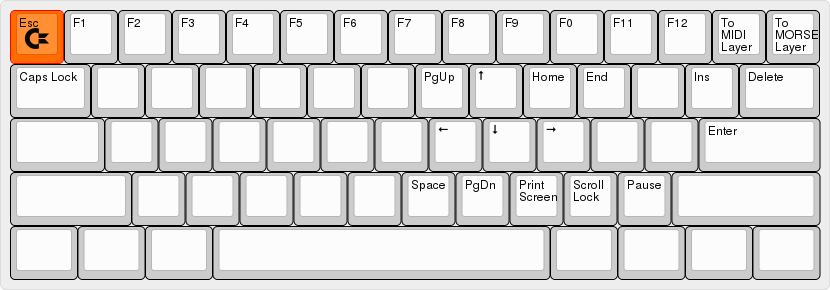
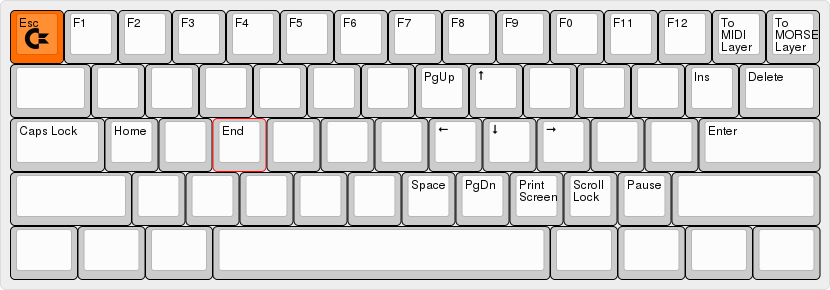
Added MIDI_CHORD layer and other little fixes. Updated readme.md

diff --git a/keyboards/s60_x/keymaps/bluebear/keymap.c b/keyboards/s60_x/keymaps/bluebear/keymap.c
@@ -3,11 +3,12 @@
 // Keyboard Layers
 
 enum keyboard_layers {
-  BASE,     //Base Layer
-  ARROWFN,  //Arrow/FN Layer
-  MOUSE,    //Mouse Layer
-  MIDI,     //Midi Layer
-  MORSE,    //Morse Code Layer
+  BASE,        //Base Layer
+  ARROWFN,     //Arrow/FN Layer
+  MOUSE,       //Mouse Layer
+  MIDI_BASE,   //Midi Layer
+  MIDI_CHORDS, //Midi Chord Layer
+  MORSE,       //Morse Code Layer
 };
 
 // Midi Chords
@@ -15,6 +16,8 @@ enum keyboard_layers {
 enum midi_chord_modes { //ACTION_FUNCTION id
   major,
   minor,
+  dom_seventh,
+  dim_seventh,
 };
 
 enum midi_chord_root { //ACTION_FUNCTION opt
@@ -78,6 +81,46 @@ enum midi_chord_id { //ACTION_FUNCTION Progmem Id
   AsMinor,
   BbMinor = AsMinor,
   BMinor,
+
+  //Dominant Seventh Chords
+
+  CDom7,
+  CsDom7,
+  DbDom7 = CsDom7,
+  DDom7,
+  DsDom7,
+  EbDom7 = DsDom7,
+  EDom7,
+  FDom7,
+  FsDom7,
+  GbDom7 = FsDom7,
+  GDom7,
+  GsDom7,
+  AbDom7 = GsDom7,
+  ADom7,
+  AsDom7,
+  BbDom7 = AsDom7,
+  BDom7,
+  
+  //Diminished Seventh Chords
+
+  CDim7,
+  CsDim7,
+  DbDim7 = CsDim7,
+  DDim7,
+  DsDim7,
+  EbDim7 = DsDim7,
+  EDim7,
+  FDim7,
+  FsDim7,
+  GbDim7 = FsDim7,
+  GDim7,
+  GsDim7,
+  AbDim7 = GsDim7,
+  ADim7,
+  AsDim7,
+  BbDim7 = AsDim7,
+  BDim7, 
 };
 
 enum midi_chord_keycodes { //Midi Chocd Keycodes
@@ -121,6 +164,46 @@ enum midi_chord_keycodes { //Midi Chocd Keycodes
   MI_CH_Asm = F(AsMinor),
   MI_CH_Bbm = MI_CH_Asm,
   MI_CH_Bm = F(BMinor),
+
+  //Dominant Seventh Keycodes
+
+  MI_CH_CDom7 = F(CDom7),
+  MI_CH_CsDom7 = F(CsDom7),
+  MI_CH_DbDom7 = MI_CH_CsDom7,
+  MI_CH_DDom7 = F(DDom7),
+  MI_CH_DsDom7 = F(DsDom7),
+  MI_CH_EbDom7 = MI_CH_DsDom7,
+  MI_CH_EDom7 = F(EDom7),
+  MI_CH_FDom7 = F(FDom7),
+  MI_CH_FsDom7 = F(FsDom7),
+  MI_CH_GbDom7 = MI_CH_FsDom7,
+  MI_CH_GDom7 = F(GDom7),
+  MI_CH_GsDom7 = F(GsDom7),
+  MI_CH_AbDom7 = MI_CH_GsDom7,
+  MI_CH_ADom7 = F(ADom7),
+  MI_CH_AsDom7 = F(AsDom7),
+  MI_CH_BbDom7 = MI_CH_AsDom7,
+  MI_CH_BDom7 = F(BDom7),
+
+  //Diminished Seventh Keycodes
+
+  MI_CH_CDim7 = F(CDim7),
+  MI_CH_CsDim7 = F(CsDim7),
+  MI_CH_DbDim7 = MI_CH_CsDim7,
+  MI_CH_DDim7 = F(DDim7),
+  MI_CH_DsDim7 = F(DsDim7),
+  MI_CH_EbDim7 = MI_CH_DsDim7,
+  MI_CH_EDim7 = F(EDim7),
+  MI_CH_FDim7 = F(FDim7),
+  MI_CH_FsDim7 = F(FsDim7),
+  MI_CH_GbDim7 = MI_CH_FsDim7,
+  MI_CH_GDim7 = F(GDim7),
+  MI_CH_GsDim7 = F(GsDim7),
+  MI_CH_AbDim7 = MI_CH_GsDim7,
+  MI_CH_ADim7 = F(ADim7),
+  MI_CH_AsDim7 = F(AsDim7),
+  MI_CH_BbDim7 = MI_CH_AsDim7,
+  MI_CH_BDim7 = F(BDim7),
 };
 
 //Morse Code Macro Keys
@@ -202,7 +285,7 @@ const uint16_t PROGMEM keymaps[][MATRIX_ROWS][MATRIX_COLS] = {
   /* 1: Arrow/FN Layer
 
 	 ┌─────┬─────┬─────┬─────┬─────┬─────┬─────┬─────┬─────┬─────┬─────┬─────┬─────┬─────┬─────┐
-	 │     │ F1  │ F2  │ F3  │ F4  │ F5  │ F6  │ F7  │ F8  │ F9  │ F10 │ F11 │ F12 │TO(3)│TO(4)│
+	 │     │ F1  │ F2  │ F3  │ F4  │ F5  │ F6  │ F7  │ F8  │ F9  │ F10 │ F11 │ F12 │TO(3)│TO(5)│
 	 ├─────┼─────┼─────┼─────┼─────┼─────┼─────┼─────┼─────┼─────┼─────┼─────┼─────┼─────┼─────┤
 	 │     │     │     │     │     │     │     │PGUP │  UP │     │     │     │ INS │ DEL │█████│
 	 ├─────┼─────┼─────┼─────┼─────┼─────┼─────┼─────┼─────┼─────┼─────┼─────┼─────┼─────┼─────┤
@@ -215,7 +298,7 @@ const uint16_t PROGMEM keymaps[][MATRIX_ROWS][MATRIX_COLS] = {
   */
 
   [ARROWFN] = KEYMAP(
-					 KC_TRNS,  KC_F1,  KC_F2,  KC_F3,  KC_F4,  KC_F5,  KC_F6,  KC_F7,  KC_F8,  KC_F9, KC_F10,  KC_F11,  KC_F12,  TO(3),  TO(4), \
+					 KC_TRNS,  KC_F1,  KC_F2,  KC_F3,  KC_F4,  KC_F5,  KC_F6,  KC_F7,  KC_F8,  KC_F9, KC_F10,  KC_F11,  KC_F12,  TO(3),  TO(5), \
 					 KC_NO,  KC_NO,  KC_NO,  KC_NO,  KC_NO,  KC_NO,  KC_NO,  KC_PGUP,  KC_UP,  KC_NO,  KC_NO,  KC_NO,  KC_INS,  KC_DEL, \
 					 KC_CAPS,  KC_HOME,  KC_NO,  KC_END,  KC_NO,  KC_NO,  KC_NO,  KC_LEFT,  KC_DOWN,  KC_RIGHT,  KC_NO,  KC_NO,  KC_NO,  KC_TRNS,  \
 					 KC_NO,  KC_NO,  KC_NO,  KC_NO,  KC_NO,  KC_NO,  KC_NO,  KC_SPACE,  KC_PGDN,  KC_PSCR,  KC_SLCK,  KC_PAUS,  KC_NO,  KC_NO,  KC_NO, \
@@ -225,7 +308,7 @@ const uint16_t PROGMEM keymaps[][MATRIX_ROWS][MATRIX_COLS] = {
   /* 2: Mouse Keys Layer
 
 	 ┌─────┬─────┬─────┬─────┬─────┬─────┬─────┬─────┬─────┬─────┬─────┬─────┬─────┬─────┬─────┐
-	 │RESET│ F1  │ F2  │ F3  │ F4  │ F5  │ F6  │ F7  │ F8  │ F9  │ F10 │ F11 │ F12 │     │     │
+	 │RESET│ F13 │ F14 │ F15 │ F16 │ F17 │ F18 │ F19 │ F20 │ F21 │ F22 │ F23 │ F24 │     │     │
 	 ├─────┼─────┼─────┼─────┼─────┼─────┼─────┼─────┼─────┼─────┼─────┼─────┼─────┼─────┼─────┤
 	 │DEBUG│     │     │     │     │     │     │BTN1 │MS_UP│BTN2 │WH_UP│     │     │     │█████│
 	 ├─────┼─────┼─────┼─────┼─────┼─────┼─────┼─────┼─────┼─────┼─────┼─────┼─────┼─────┼─────┤
@@ -239,37 +322,60 @@ const uint16_t PROGMEM keymaps[][MATRIX_ROWS][MATRIX_COLS] = {
 
   [MOUSE] = KEYMAP(
 					 
-				   RESET,  KC_F1,  KC_F2,  KC_F3,  KC_F4,  KC_F5,  KC_F6,  KC_F7,  KC_F8,  KC_F9, KC_F10,  KC_F11,  KC_F12,  KC_NO,  KC_NO,  \
+				   RESET,  KC_F13,  KC_F14,  KC_F15,  KC_F16,  KC_F17,  KC_F18,  KC_F19,  KC_F20,  KC_F21, KC_F22,  KC_F23,  KC_F24,  KC_NO,  KC_NO,  \
 				   DEBUG,  KC_NO,  KC_NO,  KC_NO,  KC_NO,  KC_NO,  KC_NO,  KC_BTN1,  KC_MS_UP,  KC_BTN2,  KC_WH_U,  KC_NO,  KC_NO,  KC_NO, \
 				   KC_NO,  KC_NO,  KC_NO,  KC_NO,  KC_NO,  KC_NO,  KC_NO,  KC_MS_LEFT,  KC_MS_DOWN,  KC_MS_RIGHT,  KC_WH_D,  KC_BTN3,  KC_NO,  KC_NO,  \
 				   KC_NO,  KC_NO,  KC_NO,  KC_NO,  KC_NO,  KC_NO,  KC_NO,  KC_NO,  KC_NO,  KC_NO,  KC_NO,  KC_NO,  KC_NO,  KC_NO,  KC_NO, \
 				   KC_TRNS,  KC_NO,  KC_NO,  KC_POWER,  KC_NO, KC_NO,  KC_NO,  KC_NO
 				   ),
 
-  /* 3: Midi Layer
+  /* 3: Midi Base Layer
 
 	 ┌─────┬─────┬─────┬─────┬─────┬─────┬─────┬─────┬─────┬─────┬─────┬─────┬─────┬─────┬─────┐
-	 │TO(0)│ Cmaj│ Gmaj│ Dmaj│ Amaj│ Emaj│ Bmaj│Gbmaj│Dbmaj│Abmaj│Ebmaj│Bbmaj│ Fmaj│     │     │
+	 │TO(0)│ Cmaj│ Gmaj│ Dmaj│ Amaj│ Emaj│ Bmaj│Gbmaj│Dbmaj│Abmaj│Ebmaj│Bbmaj│ Fmaj│     │TO(4)│
 	 ├─────┼─────┼─────┼─────┼─────┼─────┼─────┼─────┼─────┼─────┼─────┼─────┼─────┼─────┼─────┤
-	 │     │     │  C# │  D# │     │  F# │  G# │  A# │     │  C# │  D# │     │     │     │█████│
+	 │OCT+ │     │  C# │  D# │     │  F# │  G# │  A# │     │  C# │  D# │     │     │     │█████│
 	 ├─────┼─────┼─────┼─────┼─────┼─────┼─────┼─────┼─────┼─────┼─────┼─────┼─────┼─────┼─────┤
-	 │OCT- │  C  │  D  │  E  │  F  │  G  │  A  │  B  │  C  │  D  │  E  │  F  │▒▒▒▒▒│OCT+ │█████│
+	 │OCT- │  C  │  D  │  E  │  F  │  G  │  A  │  B  │  C  │  D  │  E  │  F  │▒▒▒▒▒│     │█████│
 	 ├─────┼─────┼─────┼─────┼─────┼─────┼─────┼─────┼─────┼─────┼─────┼─────┼─────┼─────┼─────┤
-	 │ Am  │▒▒▒▒▒│ Em  │ Bm  │ F#m │ C#m │ G#m │ D#m │ Bbm │ Fm  │ Cm  │ Gm  │▒▒▒▒▒│ Dm  │▒▒▒▒▒│
+	 │ Cm  │▒▒▒▒▒│ Gm  │ Dm  │ Am  │ Em  │ Bm  │ Gbm │ Dbm │ Abm │ Ebm │ Bbm │▒▒▒▒▒│ Fm  │▒▒▒▒▒│
 	 ├─────┼─────┼─────┼─────┼─────┼─────┼─────┼─────┼─────┼─────┼─────┼─────┼─────┼─────┼─────┤
 	 │     │     │     │█████│█████│█████│A-OFF│█████│█████│█████│     │     │     │     │█████│
 	 └─────┴─────┴─────┴─────┴─────┴─────┴─────┴─────┴─────┴─────┴─────┴─────┴─────┴─────┴─────┘
   */
 	
-  [MIDI] = KEYMAP(
-				  TO(0),  MI_CH_C,  MI_CH_G,  MI_CH_D,  MI_CH_A,  MI_CH_E,  MI_CH_B,  MI_CH_Gb,  MI_CH_Db,  MI_CH_Ab, MI_CH_Eb,  MI_CH_Bb,  MI_CH_F,  KC_NO,  KC_NO, \
-				  KC_NO,  KC_NO,  MI_Cs,  MI_Ds,  KC_NO,  MI_Fs,  MI_Gs,  MI_As,  KC_NO,  MI_Cs_1,  MI_Ds_1,  KC_NO,  KC_NO,  KC_NO, \
-				  MI_OCTD,  MI_C,  MI_D,  MI_E,  MI_F,  MI_G,  MI_A,  MI_B,  MI_C_1,  MI_D_1,  MI_E_1,  MI_F_1,  KC_NO,  MI_OCTU,  \
-				  MI_CH_Am,  KC_NO,  MI_CH_Em,  MI_CH_Bm,  MI_CH_Fsm,  MI_CH_Csm,  MI_CH_Gsm,  MI_CH_Dsm,  MI_CH_Bbm,  MI_CH_Fm,  MI_CH_Cm,  MI_CH_Gm,  KC_NO,  MI_CH_Dm,  KC_NO, \
-				  KC_NO,  KC_NO,  KC_NO,  MI_ALLOFF,  KC_NO, KC_NO,  KC_NO,  KC_NO
-				  ),
+  [MIDI_BASE] = KEYMAP(
+					   TO(0),  MI_CH_C,  MI_CH_G,  MI_CH_D,  MI_CH_A,  MI_CH_E,  MI_CH_B,  MI_CH_Gb,  MI_CH_Db,  MI_CH_Ab, MI_CH_Eb,  MI_CH_Bb,  MI_CH_F,  KC_NO,  TO(4), \
+					   MI_OCTU,  KC_NO,  MI_Cs,  MI_Ds,  KC_NO,  MI_Fs,  MI_Gs,  MI_As,  KC_NO,  MI_Cs_1,  MI_Ds_1,  KC_NO,  KC_NO,  KC_NO, \
+					   MI_OCTD,  MI_C,  MI_D,  MI_E,  MI_F,  MI_G,  MI_A,  MI_B,  MI_C_1,  MI_D_1,  MI_E_1,  MI_F_1,  KC_NO,  KC_NO,  \
+					   MI_CH_Cm,  KC_NO,  MI_CH_Gm,  MI_CH_Dm,  MI_CH_Am,  MI_CH_Em,  MI_CH_Bm,  MI_CH_Gbm,  MI_CH_Dbm,  MI_CH_Abm,  MI_CH_Ebm,  MI_CH_Bbm,  KC_NO,  MI_CH_Fm,  KC_NO, \
+					   KC_NO,  KC_NO,  KC_NO,  MI_ALLOFF,  KC_NO, KC_NO,  KC_NO,  KC_NO
+					   ),
 
-  /* 4: Morse Code Layer
+  /* 4: Midi Chord Layer
+
+	 ┌─────┬─────┬─────┬─────┬─────┬─────┬─────┬─────┬─────┬─────┬─────┬─────┬─────┬─────┬─────┐
+	 │TO(0)│ Cmaj│ Gmaj│ Dmaj│ Amaj│ Emaj│ Bmaj│Gbmaj│Dbmaj│Abmaj│Ebmaj│Bbmaj│ Fmaj│TO(3)│     │
+	 ├─────┼─────┼─────┼─────┼─────┼─────┼─────┼─────┼─────┼─────┼─────┼─────┼─────┼─────┼─────┤
+	 │OCT+ │  Cm │  Gm │  Dm │  Am │  Em │ Bbm │ Gbm │ Dbm │ Abm │ Ebm │ Bbm │ Fm  │     │█████│
+	 ├─────┼─────┼─────┼─────┼─────┼─────┼─────┼─────┼─────┼─────┼─────┼─────┼─────┼─────┼─────┤
+	 │OCT- │Cdom7│Gdom7│Ddom7│Adom7│Edom7│Bdom7│Gbdo7│Dbdo7│Abdo7│Ebdo7│Bbdo7│▒▒▒▒▒│Fdom7│█████│
+	 ├─────┼─────┼─────┼─────┼─────┼─────┼─────┼─────┼─────┼─────┼─────┼─────┼─────┼─────┼─────┤
+	 │Cdim7│▒▒▒▒▒│Gdim7│Ddim7│Adim7│Edim7│Bdim7│Gbdi7│Dbdi7│Abdi7│Ebdi7│Bbdi7│▒▒▒▒▒│Fdim7│▒▒▒▒▒│
+	 ├─────┼─────┼─────┼─────┼─────┼─────┼─────┼─────┼─────┼─────┼─────┼─────┼─────┼─────┼─────┤
+	 │     │     │     │█████│█████│█████│A-OFF│█████│█████│█████│     │     │     │     │█████│
+	 └─────┴─────┴─────┴─────┴─────┴─────┴─────┴─────┴─────┴─────┴─────┴─────┴─────┴─────┴─────┘
+  */
+	
+  [MIDI_CHORDS] = KEYMAP(
+						 TO(0),  MI_CH_C,  MI_CH_G,  MI_CH_D,  MI_CH_A,  MI_CH_E,  MI_CH_B,  MI_CH_Gb,  MI_CH_Db,  MI_CH_Ab, MI_CH_Eb,  MI_CH_Bb,  MI_CH_F,  TO(3),  KC_NO, \
+						 MI_OCTU,  MI_CH_Cm,  MI_CH_Gm,  MI_CH_Dm,  MI_CH_Am,  MI_CH_Em,  MI_CH_Bbm,  MI_CH_Gbm,  MI_CH_Dbm,  MI_CH_Abm,  MI_CH_Ebm,  MI_CH_Bbm,  MI_CH_Fm,  KC_NO, \
+						 MI_OCTD,  MI_CH_CDom7,  MI_CH_GDom7,  MI_CH_DDom7,  MI_CH_ADom7,  MI_CH_EDom7,  MI_CH_BDom7,  MI_CH_GbDom7,  MI_CH_DbDom7,  MI_CH_AbDom7,  MI_CH_EbDom7,  MI_CH_BbDom7,  KC_NO,  MI_CH_FDom7, \
+						 MI_CH_CDim7,  KC_NO,  MI_CH_GDim7,  MI_CH_DDim7,  MI_CH_ADim7,  MI_CH_EDim7,  MI_CH_BDim7,  MI_CH_GbDim7,  MI_CH_DbDim7,  MI_CH_AbDim7,  MI_CH_EbDim7,  MI_CH_BbDim7,  KC_NO,  MI_CH_FDim7,  KC_NO, \
+						 KC_NO,  KC_NO,  KC_NO,  MI_ALLOFF,  KC_NO, KC_NO,  KC_NO,  KC_NO
+						 ),
+
+  /* 5: Morse Code Layer
 	 
 	 ┌─────┬─────┬─────┬─────┬─────┬─────┬─────┬─────┬─────┬─────┬─────┬─────┬─────┬─────┬─────┐
 	 │TO(0)│  1  │  2  │  3  │  4  │  5  │  6  │  7  │  8  │  9  │  0  │     │     │     │     │
@@ -720,6 +826,36 @@ const uint16_t PROGMEM fn_actions[] = {
   [AMinor] = ACTION_FUNCTION_OPT(minor, A),
   [AsMinor] = ACTION_FUNCTION_OPT(minor, As),
   [BMinor] = ACTION_FUNCTION_OPT(minor, B),
+  
+  //Dominant 7th
+
+  [CDom7] = ACTION_FUNCTION_OPT(dom_seventh, C),
+  [CsDom7] =  ACTION_FUNCTION_OPT(dom_seventh, Cs),
+  [DDom7] = ACTION_FUNCTION_OPT(dom_seventh, D),
+  [DsDom7] = ACTION_FUNCTION_OPT(dom_seventh, Ds),
+  [EDom7] = ACTION_FUNCTION_OPT(dom_seventh, E),
+  [FDom7] = ACTION_FUNCTION_OPT(dom_seventh, F),
+  [FsDom7] = ACTION_FUNCTION_OPT(dom_seventh, Fs),
+  [GDom7] = ACTION_FUNCTION_OPT(dom_seventh, G),
+  [GsDom7] = ACTION_FUNCTION_OPT(dom_seventh, Gs),
+  [ADom7] = ACTION_FUNCTION_OPT(dom_seventh, A),
+  [AsDom7] = ACTION_FUNCTION_OPT(dom_seventh, As),
+  [BDom7] = ACTION_FUNCTION_OPT(dom_seventh, B),
+
+  //Diminished 7th
+
+  [CDim7] = ACTION_FUNCTION_OPT(dim_seventh, C),
+  [CsDim7] =  ACTION_FUNCTION_OPT(dim_seventh, Cs),
+  [DDim7] = ACTION_FUNCTION_OPT(dim_seventh, D),
+  [DsDim7] = ACTION_FUNCTION_OPT(dim_seventh, Ds),
+  [EDim7] = ACTION_FUNCTION_OPT(dim_seventh, E),
+  [FDim7] = ACTION_FUNCTION_OPT(dim_seventh, F),
+  [FsDim7] = ACTION_FUNCTION_OPT(dim_seventh, Fs),
+  [GDim7] = ACTION_FUNCTION_OPT(dim_seventh, G),
+  [GsDim7] = ACTION_FUNCTION_OPT(dim_seventh, Gs),
+  [ADim7] = ACTION_FUNCTION_OPT(dim_seventh, A),
+  [AsDim7] = ACTION_FUNCTION_OPT(dim_seventh, As),
+  [BDim7] = ACTION_FUNCTION_OPT(dim_seventh, B),
 };
 
 void action_function(keyrecord_t *record, uint8_t id, uint8_t opt) {
@@ -764,19 +900,30 @@ void action_function(keyrecord_t *record, uint8_t id, uint8_t opt) {
   }
   uint16_t major_third = root_note + 4;
   uint16_t minor_third = root_note + 3;
+  //uint16_t flat_fifth = root_note + 6;
   uint16_t fifth = root_note + 7;
+  uint16_t minor_seventh = root_note + 10;
+  uint16_t diminished_seventh = root_note -3;
   switch (id) {
   case major: //Major chord
-	dprintf("Root Note:%d - Major Third:%d - Fifth:%d\n", root_note, major_third, fifth);
 	process_midi(root_note, record);
 	process_midi(major_third, record);
 	process_midi(fifth, record);
 	break;
   case minor: //Minor chord
-	dprintf("Root Note:%d - Minor Third:%d - Fifth:%d\n", root_note, minor_third, fifth);	
 	process_midi(root_note, record);
 	process_midi(minor_third, record);
 	process_midi(fifth, record);
+	break;
+  case dom_seventh: //Dominant Seventh chord
+	process_midi(root_note, record);
+	process_midi(major_third, record);
+	process_midi(minor_seventh, record);
+	break;
+  case dim_seventh: //Diminished Seventh Chord
+	process_midi(root_note, record);
+	process_midi(minor_third, record);
+	process_midi(diminished_seventh, record);
 	break;
   }
 }

diff --git a/keyboards/s60_x/keymaps/bluebear/readme.md b/keyboards/s60_x/keymaps/bluebear/readme.md
@@ -1,25 +1,75 @@
-## Bluebear’s custom S60X layout
+# Bluebear’s custom S60X layout
 
 Custom keyboard layout for my S60X, my first ever custom mechanical keyboard kit.
 
 This layout was inspired in part by the HHKB line of keyboards and a quest to find the perfect ergonomic, logical layout for what I do. If you like this layout, please feel free to use it, modify it and share it.
 
-## Base Layer
+## BASE Layer
 
+![BASE Layer](S60X-Bluebear-BASE-Layer.png)
+
+-Dvorak keyboard layout
 -Hold left control key for LCTL, and tap it for ESC
 -Hold enter key for RCTL and tap for ENT
--Hold the space key to momentarily switch to [ARROW] layer
--Left bottom key acts as momentary switch to the [MOUSE] layer
+-Hold the space key to momentarily switch to ARROWFN layer
+-Left bottom key acts as momentary switch to the MOUSE layer
 -Hold right alt key for AltGr and tap for APP(which I have mapped to Compose in OS)
 -Hold left shift key for LSFT and tap for ( (Space Cadet style)
 -Hold right shift key for RSFT and tap for ) (Space Cadet style)
 -Tap key on bottom row, second from the right (where APP usually is) to get CTL-Shift (one shot modifier - next key pressed will be modified by ctl-shift)
 -Tap key on bottom right to get CTL-Alt (one shot modifier - next key pressed will be modified by ctl-alt)
 
-## Mouse Layer
+## ARROWFN Layer
 
+![ARROWFN Layer](S60X-Bluebear-ARROWFN-Layer.png)
+
+-Number row becomes F1 to F12
+-C, T, H, N keys become Up, Down, Left, Right
+-Access to various other keys normally found on a full sized keyboard
+-Top right button toggles MORSE layer
+-Second from right, top row, toggles MIDI_BASE layer
+
+## MOUSE Layer
+
+![MOUSE Layer](S60X-Bluebear-MOUSE-Layer.png)
+
+-Move the mouse with mouse keys
 -Hitting the escape key in this layer will give RESET, which puts the controller into dfu mode for flashing firmware onto it
 -Hitting the space key in this layer is like hitting power button on computer
+-Hitting the tab button toggles caps lock
+-Number row becomes F13 to F24
+
+## MIDI_BASE Layer
+
+![MIDI_BASE Layer](S60X-Bluebear-MIDI_BASE-Layer.png)
+
+This layer was inspired by the Satan Midi layout (https://github.com/qmk/qmk_firmware/tree/master/keyboards/satan/keymaps/midi) and gives access to basic MIDI notes. What I added were two layers of MIDI chords (major and minor triads) arranged in a circle of fifths pattern. Thanks to @fredizzimo for helping me with the code for these chords.
+
+-Top right button toggles MORSE_CHORDS layer
+-Escape brings you back to the BASE layer
+
+## MIDI_CHORDS Layer
+
+![MIDI_CHORDS Layer](S60X-Bluebear-MIDI_CHORDS-Layer.png)
+
+After figuring out how to code my MIDI chord function, I decided to dedicate a full layer to these chords. This chord layout was inspired by the Stradella Base system (https://en.wikipedia.org/wiki/Stradella_bass_system) found on accordions. This layer is a tool for musical composition and songwriting.
+
+-Second from right, top row, toggles MIDI_BASE layer
+-Escape brings you back to the BASE layer
+
+## MORSE LAYER
+
+![MORSE Layer](S60X-Bluebear-MORSE-Layer.png)
+
+This layer is really just for fun, and because I am a ham radio operator and morse code enthusiast. Hitting the alphanumerical keys in this layer will send a series of dits (.) and dahs (-) representing that character in morse code.
+
+-Escape brings you back to the BASE layer
+
+### THIS IS STILL A WORK IN PROGRESS
+
+This keyboard layout is still a work in progress and there are a couple of kinks left to iron out. But it is still very usable and the midi and morse code layers are lots of fun to use. Please feel free to use, share and improve all, or part of this layout.
+
+
 
 
 
